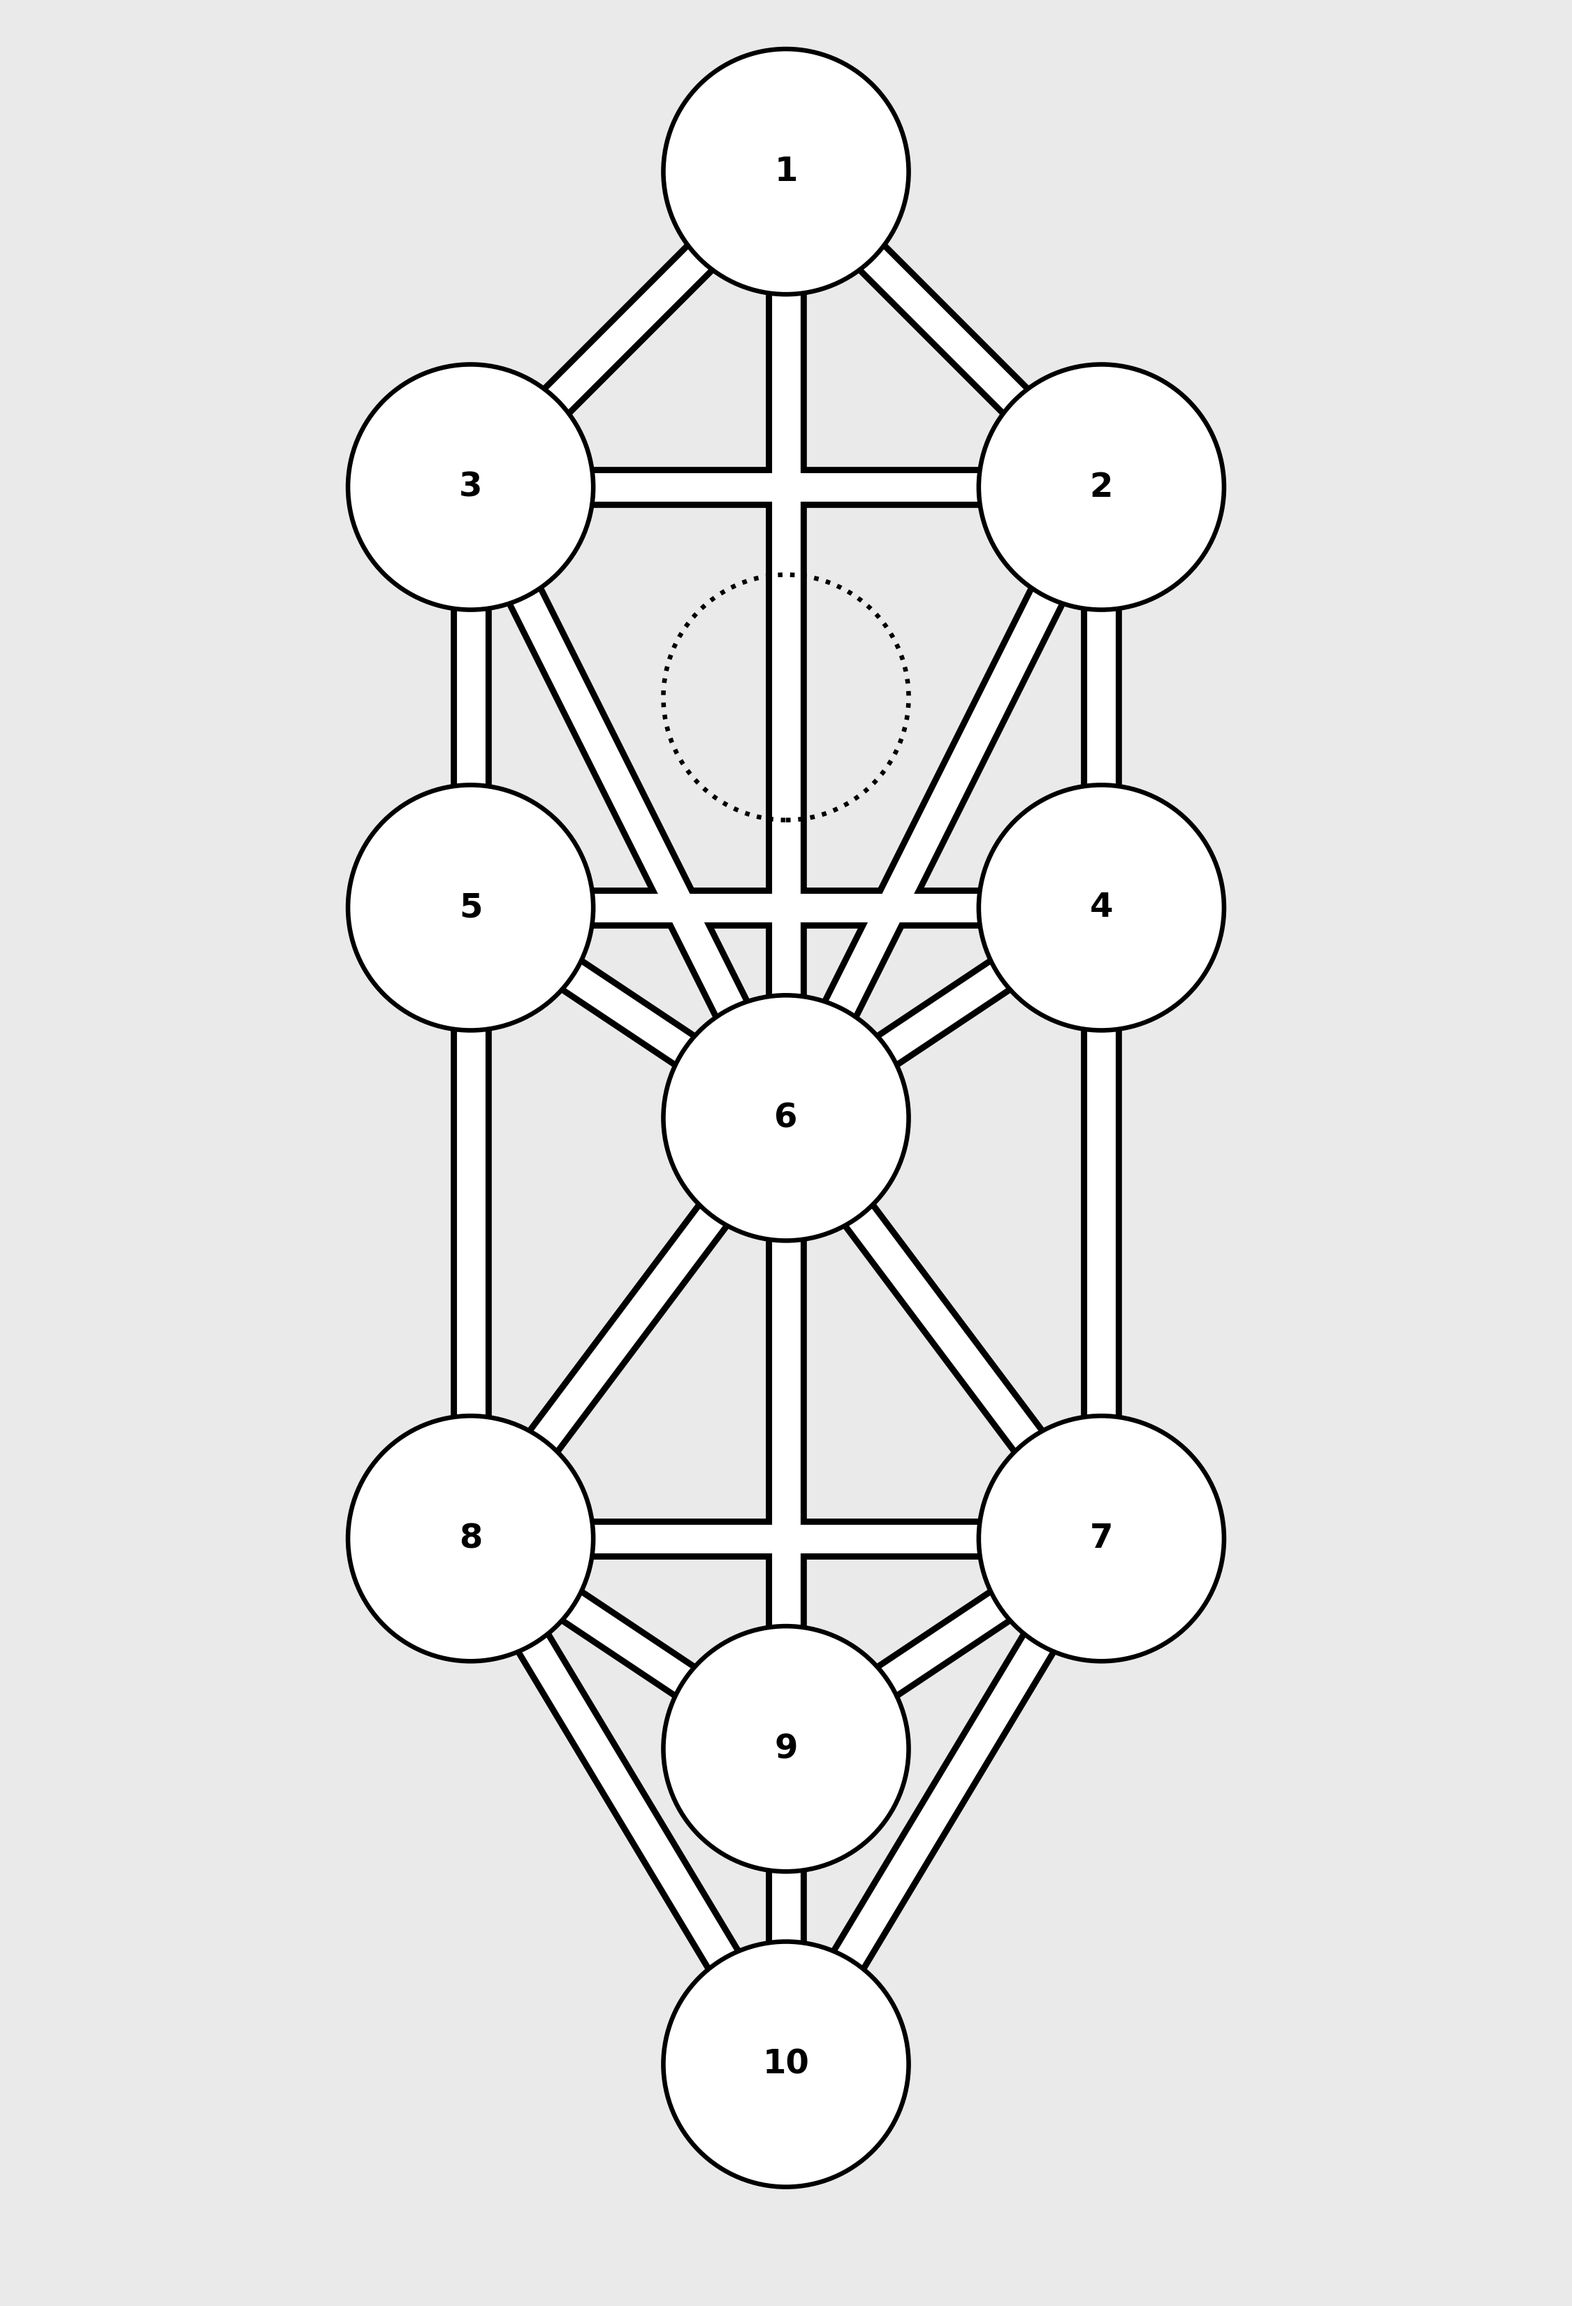
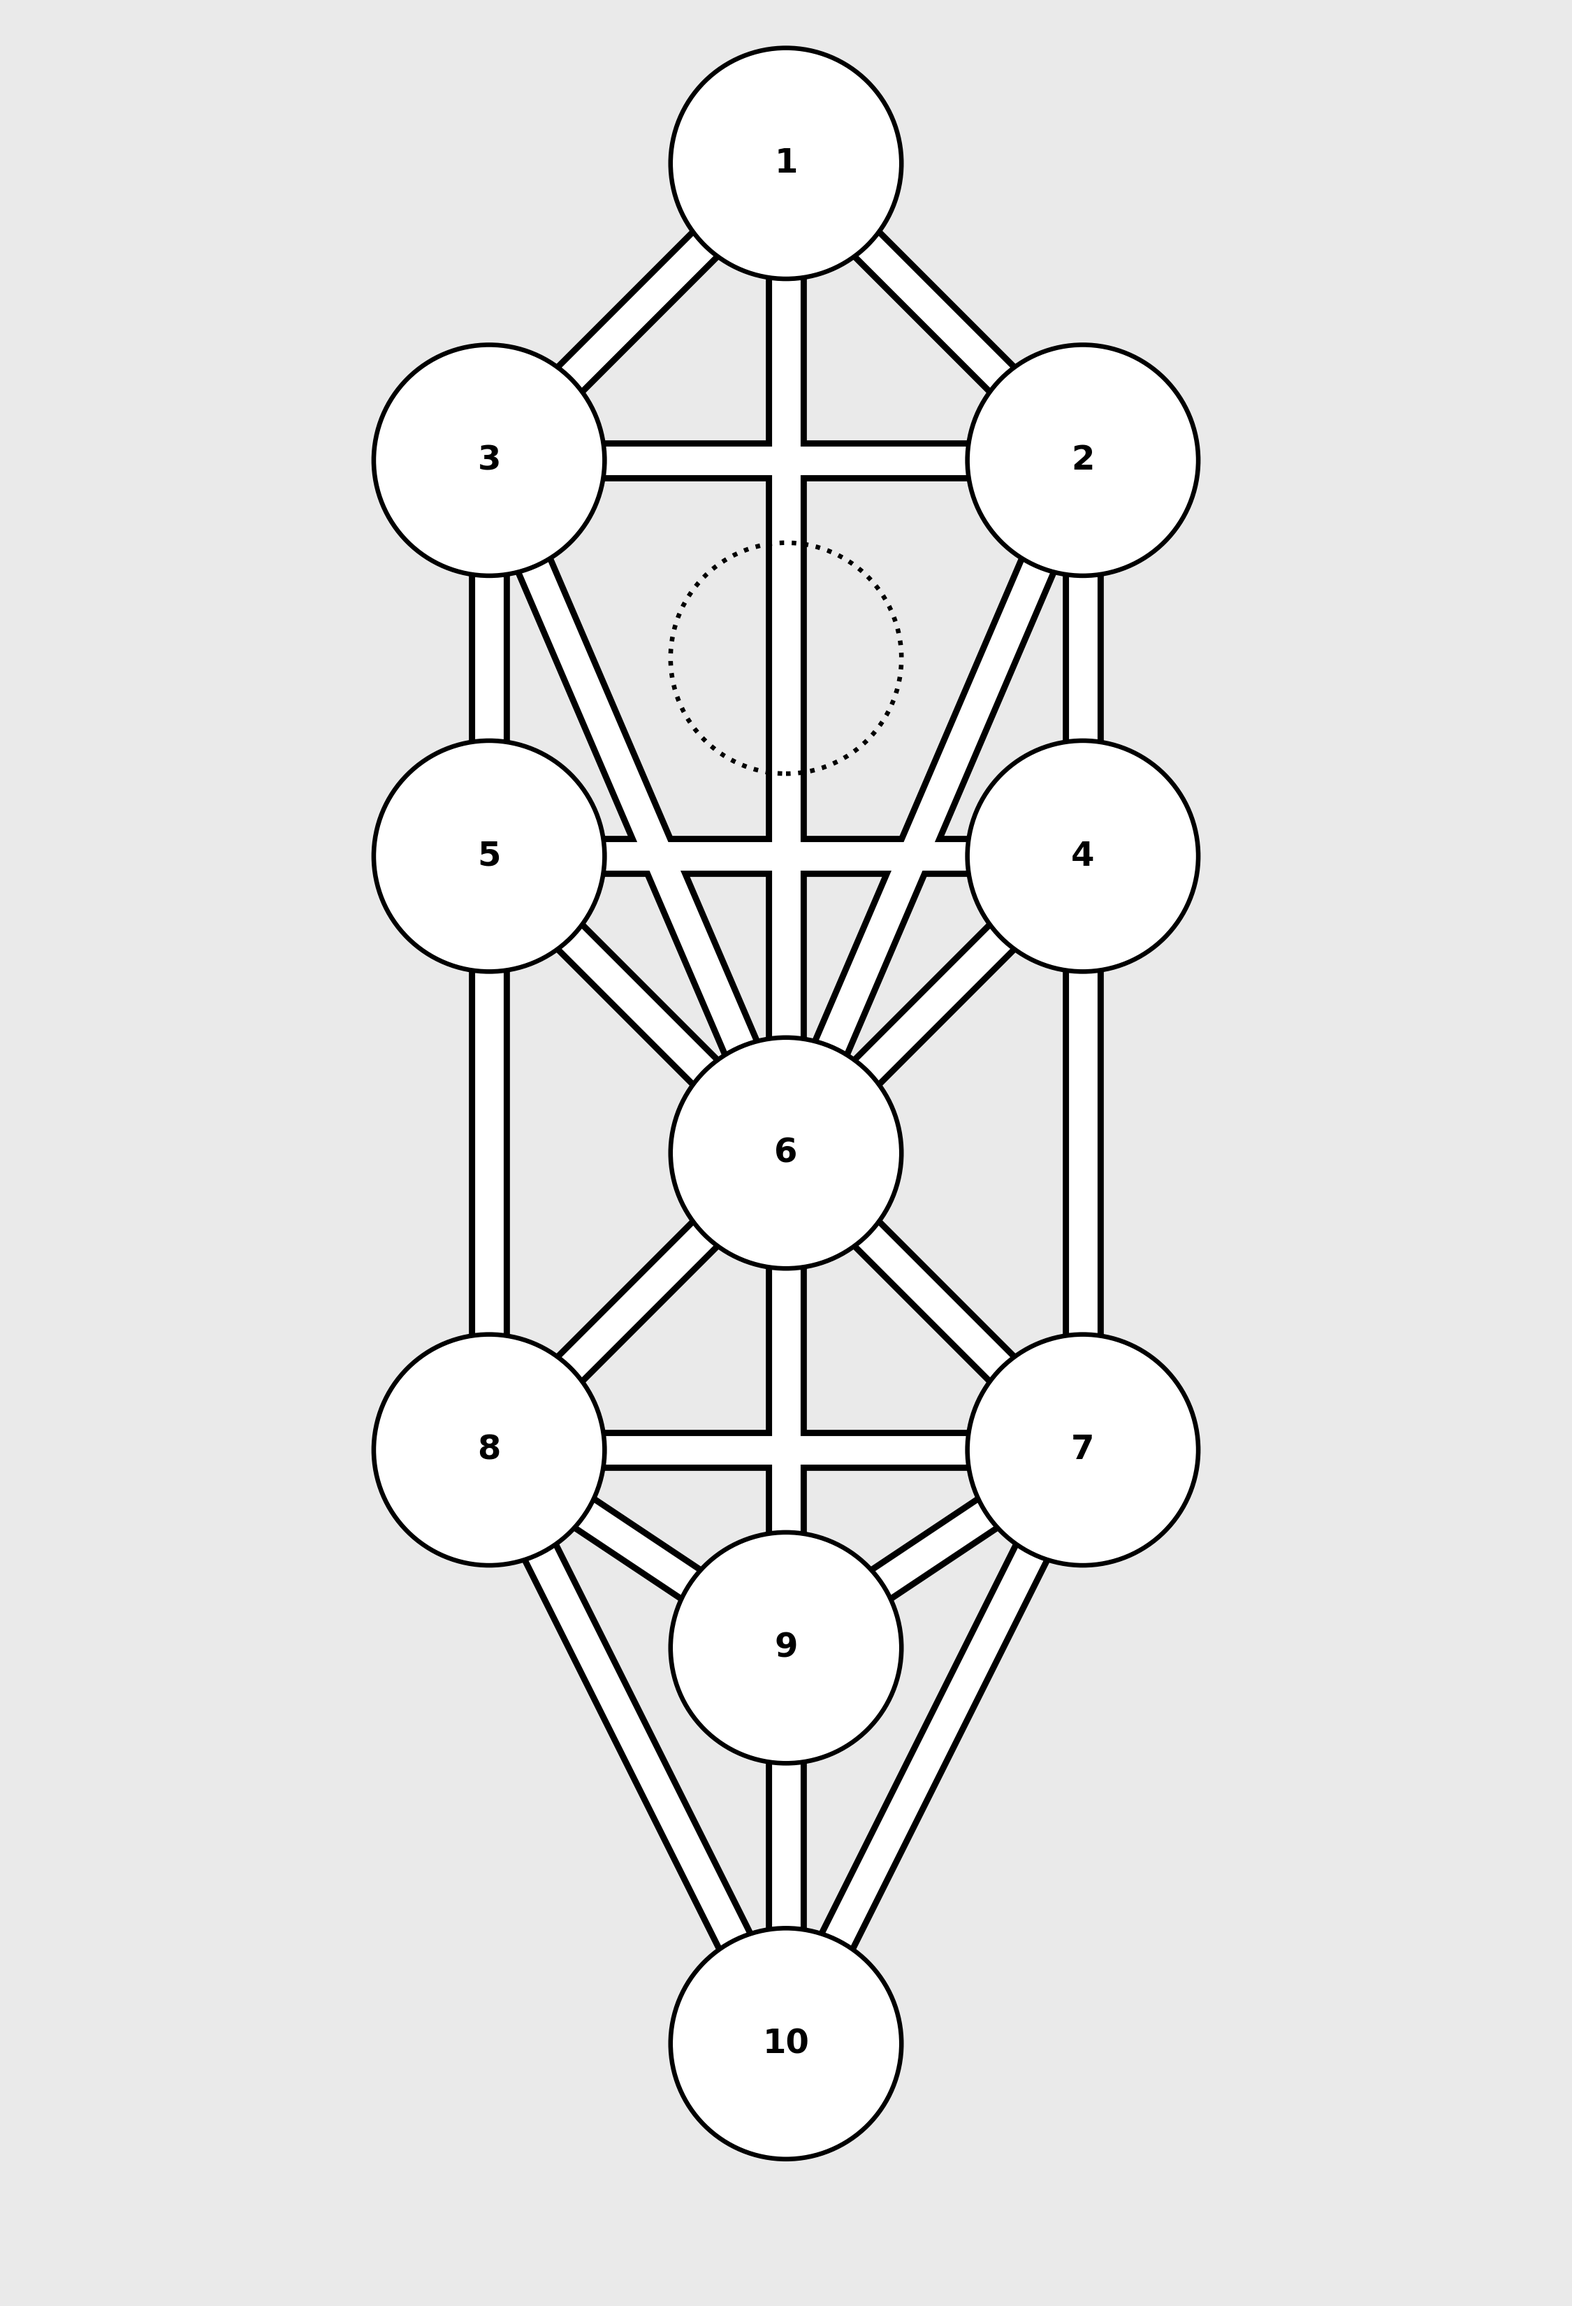
refactor: adjust Tiphereth and Malkuth positions for better geometric balance

diff --git a/new_tree.py b/new_tree.py
@@ -38,16 +38,16 @@ def draw_tree_of_life(output_filename: str = None) -> None:
         (1.5 * spacing_factor, 5.5 * spacing_factor),
         # 4: Geburah (Mid left)
         (-1.5 * spacing_factor, 5.5 * spacing_factor),
-        # 5: Tiphereth (Center)
-        (0 * spacing_factor, 4.5 * spacing_factor),
+        # 5: Tiphereth (Center) - moved to geometric center of Chesed, Geburah, Netzach, and Hod
+        (0 * spacing_factor, 4.0 * spacing_factor),
         # 6: Netzach (Bottom right)
         (1.5 * spacing_factor, 2.5 * spacing_factor),
         # 7: Hod (Bottom left)
         (-1.5 * spacing_factor, 2.5 * spacing_factor),
         # 8: Yesod (Bottom center)
         (0 * spacing_factor, 1.5 * spacing_factor),
-        # 9: Malkuth (Bottom)
-        (0 * spacing_factor, 0 * spacing_factor)
+        # 9: Malkuth (Bottom) - adjusted position
+        (0 * spacing_factor, -0.5 * spacing_factor)
     ]
 
     # Coordinate for the hidden Sephirah, Da'ath
@@ -115,7 +115,8 @@ def draw_tree_of_life(output_filename: str = None) -> None:
 
     # Set plot limits with some padding to accommodate the larger spheres and adjusted spacing
     ax.set_xlim(-3.5, 3.5)  # Adjusted based on spacing factor
-    ax.set_ylim(-1.5, 14.5)  # Adjusted based on spacing factor
+    # Extended lower limit to accommodate Malkuth's new position
+    ax.set_ylim(-2.5, 14.5)
 
     # Ensure aspect ratio is equal so circles are not distorted
     ax.set_aspect('equal', adjustable='box')
